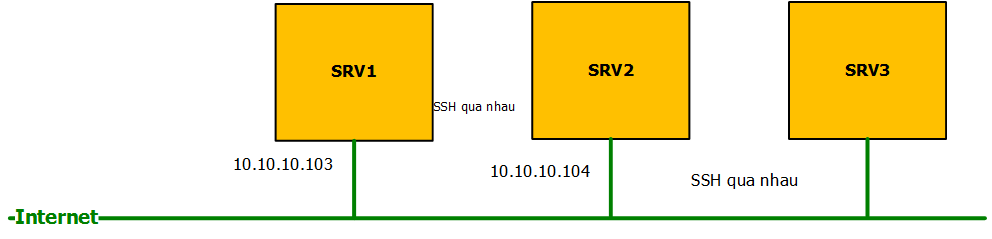
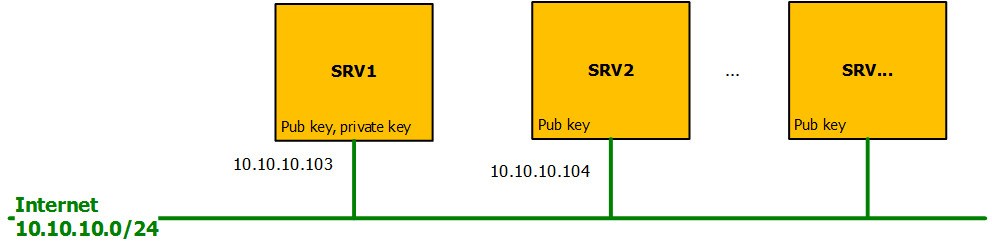
update

diff --git a/DuyDM/Key-SSH/docs/key-ssh.md b/DuyDM/Key-SSH/docs/key-ssh.md
@@ -1,4 +1,18 @@
-# 1. Tìm hiểu về SSH key
+# Tìm hiểu về SSH key
+
+
+### Mục lục
+
+[1. Tổng quan](#tongquan)
+
+[2. Thành phần](#thanhphan)
+
+[3 . Sử dụng key trong SSH](#sudung)
+
+[4. Tắt tính năng sử dụng pass ssh mà chỉ cho sử dụng ssh key](#ssh)
+
+<a name="tongquan"></a>
+## 1. Tổng quan
 
 Về bản chất ssh key trong Linux sử dụng mã hóa khóa công khai sử dụng cặp khóa private và public key trong xác thực và phân quyền.
 
@@ -13,18 +27,45 @@ SSH key sinh ra một cặp key được dùng để mã hóa bất đối xứn
 
 + Một sô nguy cơ bị lộ mật khẩu
 
-## 2. Sử dụng key trong SSH
+<a name="thanhphan"></a>
+## 2. Thành phần
+
+Khi tạo ra một SSH Key về cơ bản có 3 thành phần quan trọng như sau:
+
++ Public Key (dạng file và string) – Copy ký tự key này vào file ~/.ssh/authorized_keys trên server muốn shh key tới.
+
++ Private Key (dạng file và string) – Lưu file này vào máy tính, sau đó sẽ thiết lập cho PuTTY, WinSCP, MobaXterm,..để có thể login.
+
++ Keypharse (dạng string, cần ghi nhớ) – Mật khẩu để mở private key, nếu khai báo tham số này khi đăng nhập vào server nó sẽ hỏi cái này.
+
+<a name="sudung"></a>
+## 3 . Sử dụng key trong SSH
+
+Có thể sử dụng key theo hai cách:
+
++ Cách 1: Từ SRV1 genkey và copy public key sang SRV2, SRVn...
+
++ Cách 2: Từ SRV2 genkey và copy private key sang SRV2
+
+Lưu ý: 
+
+	Copy-id public key, private vào đúng thư mục.
+	
+	Với cặp key được sịnh ra bởi user root thì public key sẽ được gửi đi (SRV1),nhưng nếu server muốn ssh tới (SRV2) có nhiều user thì sẽ cần thêm key cho tất cả user đó.
+
+Hai cách trên đều có thể sử dụng ssh key nhưng chỉ sử dụng cách 1, vì private key là chìa khóa để giải mã tuyệt đối không được truyền trên đường truyền internet sẽ có nguy cơ bị chặn bắt trên đường truyền mất private key thuật toán mã hóa sẽ không an toàn.
 
 Mô hình
 
 ![](../images/ssh1.png)
 
-Bước 1: Tạo key 
+### 3.1. Trường hợp sử dụng user root (SRV1) để gen key
+
+Bước 1: Login với user roor -> Tạo key trên server SRV1 - 10.10.10.103
 
 ```sh
 ssh-keygen -t rsa
 ```
-
 Trong trường hợp nhập passphrase, thì dù người khác có copy được cặp key của bạn cũng không thể dùng được vì phải biết mật khẩu nữa. Có thể lựa chọn passphrase là empty.
 
 ![](../images/Screenshot_105.png)
@@ -40,6 +81,8 @@ ssh-copy-id -i ~/.ssh/id_rsa.pub root@10.10.10.104
 
 ```
 
+Mặc định khi sử dụng lệnh này để copy key thì nội dung public key sẽ được ghi vào file ~/.ssh/authorized_keys
+
 ![](../images/Screenshot_107.png)
 
 Bước 3: Kiểm tra key được copy sang server remote
@@ -53,10 +96,14 @@ Public key được copy sang server remote ok .
 
 Bước 3: SSH sang server không cân nhập password
 
-
 ![](../images/Screenshot_110.png)
 
-Lúc này ta ssh không cần nhập pass.
+Lúc này ta đứng từ user root của SRV1 ssh sang SRV2 không cần nhập pass.
+
+<a name="ssh"></a>
+## 4. Tắt tính năng sử dụng pass ssh mà chỉ cho sử dụng ssh key
+
+
 
 
 
